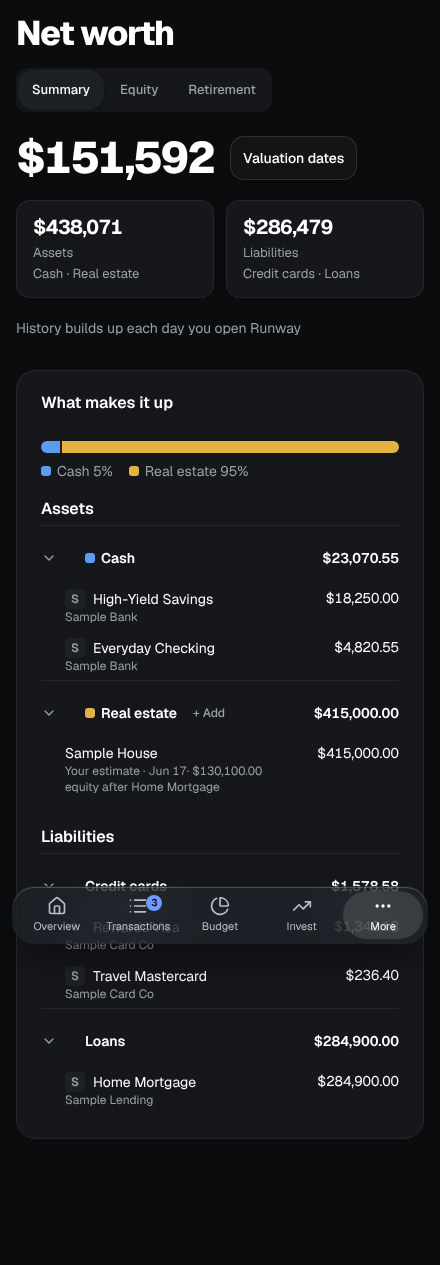
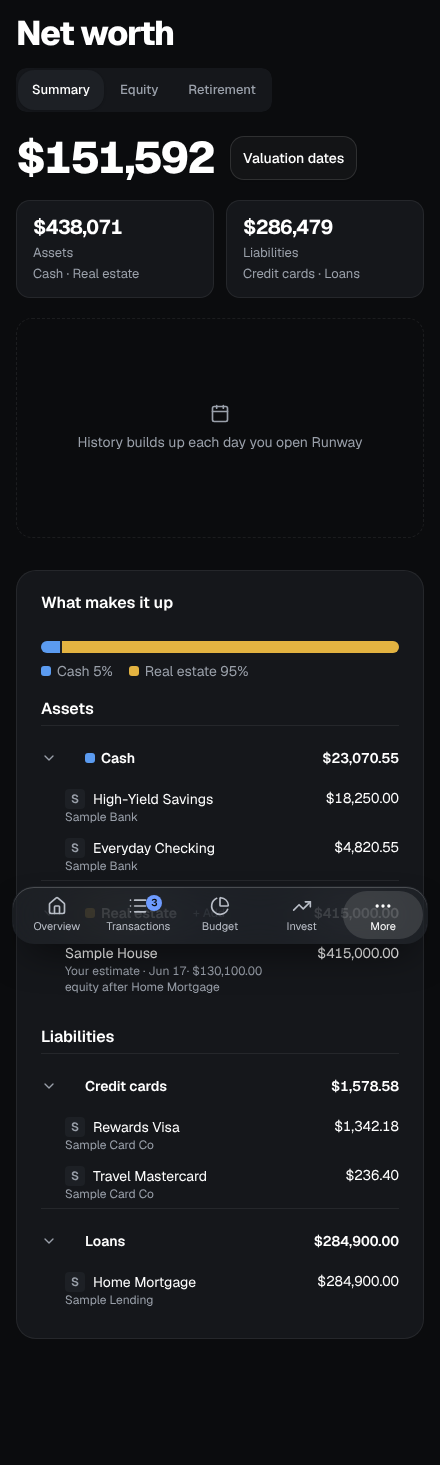
feat: give Net worth's no-history line the chart's place
Claude-Session: https://claude.ai/code/session_01Rq9ArZs6R6Sp2XFbJD7JDX

diff --git a/frontend/src/lib/components/networth/hero.svelte.test.ts b/frontend/src/lib/components/networth/hero.svelte.test.ts
@@ -31,6 +31,7 @@ describe("the net worth hero", () => {
     expect(await change()).toBe("+$300 (+6.4%) in the last month");
     expect(screen.getByTestId("nw-change")).toHaveClass("text-good");
     expect(screen.queryByText("Over time")).not.toBeInTheDocument();
+    expect(screen.queryByTestId("nw-no-history-box")).not.toBeInTheDocument();
     expect(screen.getByRole("radio", { name: "1Y" })).toBeDisabled();
     const chart = () => container.querySelector("svg[role=slider]")!.innerHTML;
     const before = chart();
@@ -64,6 +65,8 @@ describe("the net worth hero", () => {
     serve(nw([{ date: "2026-09-30", net: 5000 }], { "30d": null, "90d": null, "1y": null }));
     const { container } = render(NetWorth);
     expect(await screen.findByTestId("nw-no-history")).toHaveTextContent("History builds up each day you open Runway");
+    expect(screen.getByTestId("nw-no-history-box")).toContainElement(screen.getByTestId("nw-no-history"));
+    expect(screen.getByTestId("nw-no-history-box")).toHaveClass("h-[220px]", "border-dashed");
     expect(container.querySelector("svg[role=slider]")).toBeNull();
     expect(screen.queryByRole("radio")).not.toBeInTheDocument();
     expect(screen.queryByText("Over time")).not.toBeInTheDocument();

diff --git a/frontend/src/pages/NetWorth.svelte b/frontend/src/pages/NetWorth.svelte
@@ -23,6 +23,7 @@
   import { fmt, fmt0, fmtDate, fmtSigned0, nb, pct, shortMoney } from "$lib/format";
   import { undoable } from "$lib/undo";
   import { cn } from "$lib/utils";
+  import Calendar from "@lucide/svelte/icons/calendar";
   import ChevronDown from "@lucide/svelte/icons/chevron-down";
   import { toast } from "svelte-sonner";
   import { act, errMsg } from "$lib/act";
@@ -254,7 +255,11 @@
           series={[{ name: "Net worth", values: points.map((h) => h.net), cls: "s-main", area: true }]} />
       </div>
     {:else}
-      <p class="mt-5 text-sm text-muted-foreground" data-testid="nw-no-history">History builds up each day you open Runway</p>
+      <!-- Holds the chart's place (same 220px height) so the missing history doesn't read as a chart that failed to render. -->
+      <div class="mt-5 flex h-[220px] flex-col items-center justify-center gap-2 rounded-lg border border-dashed text-sm text-muted-foreground" data-testid="nw-no-history-box">
+        <Calendar class="size-5" aria-hidden="true" />
+        <p data-testid="nw-no-history">History builds up each day you open Runway</p>
+      </div>
     {/if}
   </section>
 
